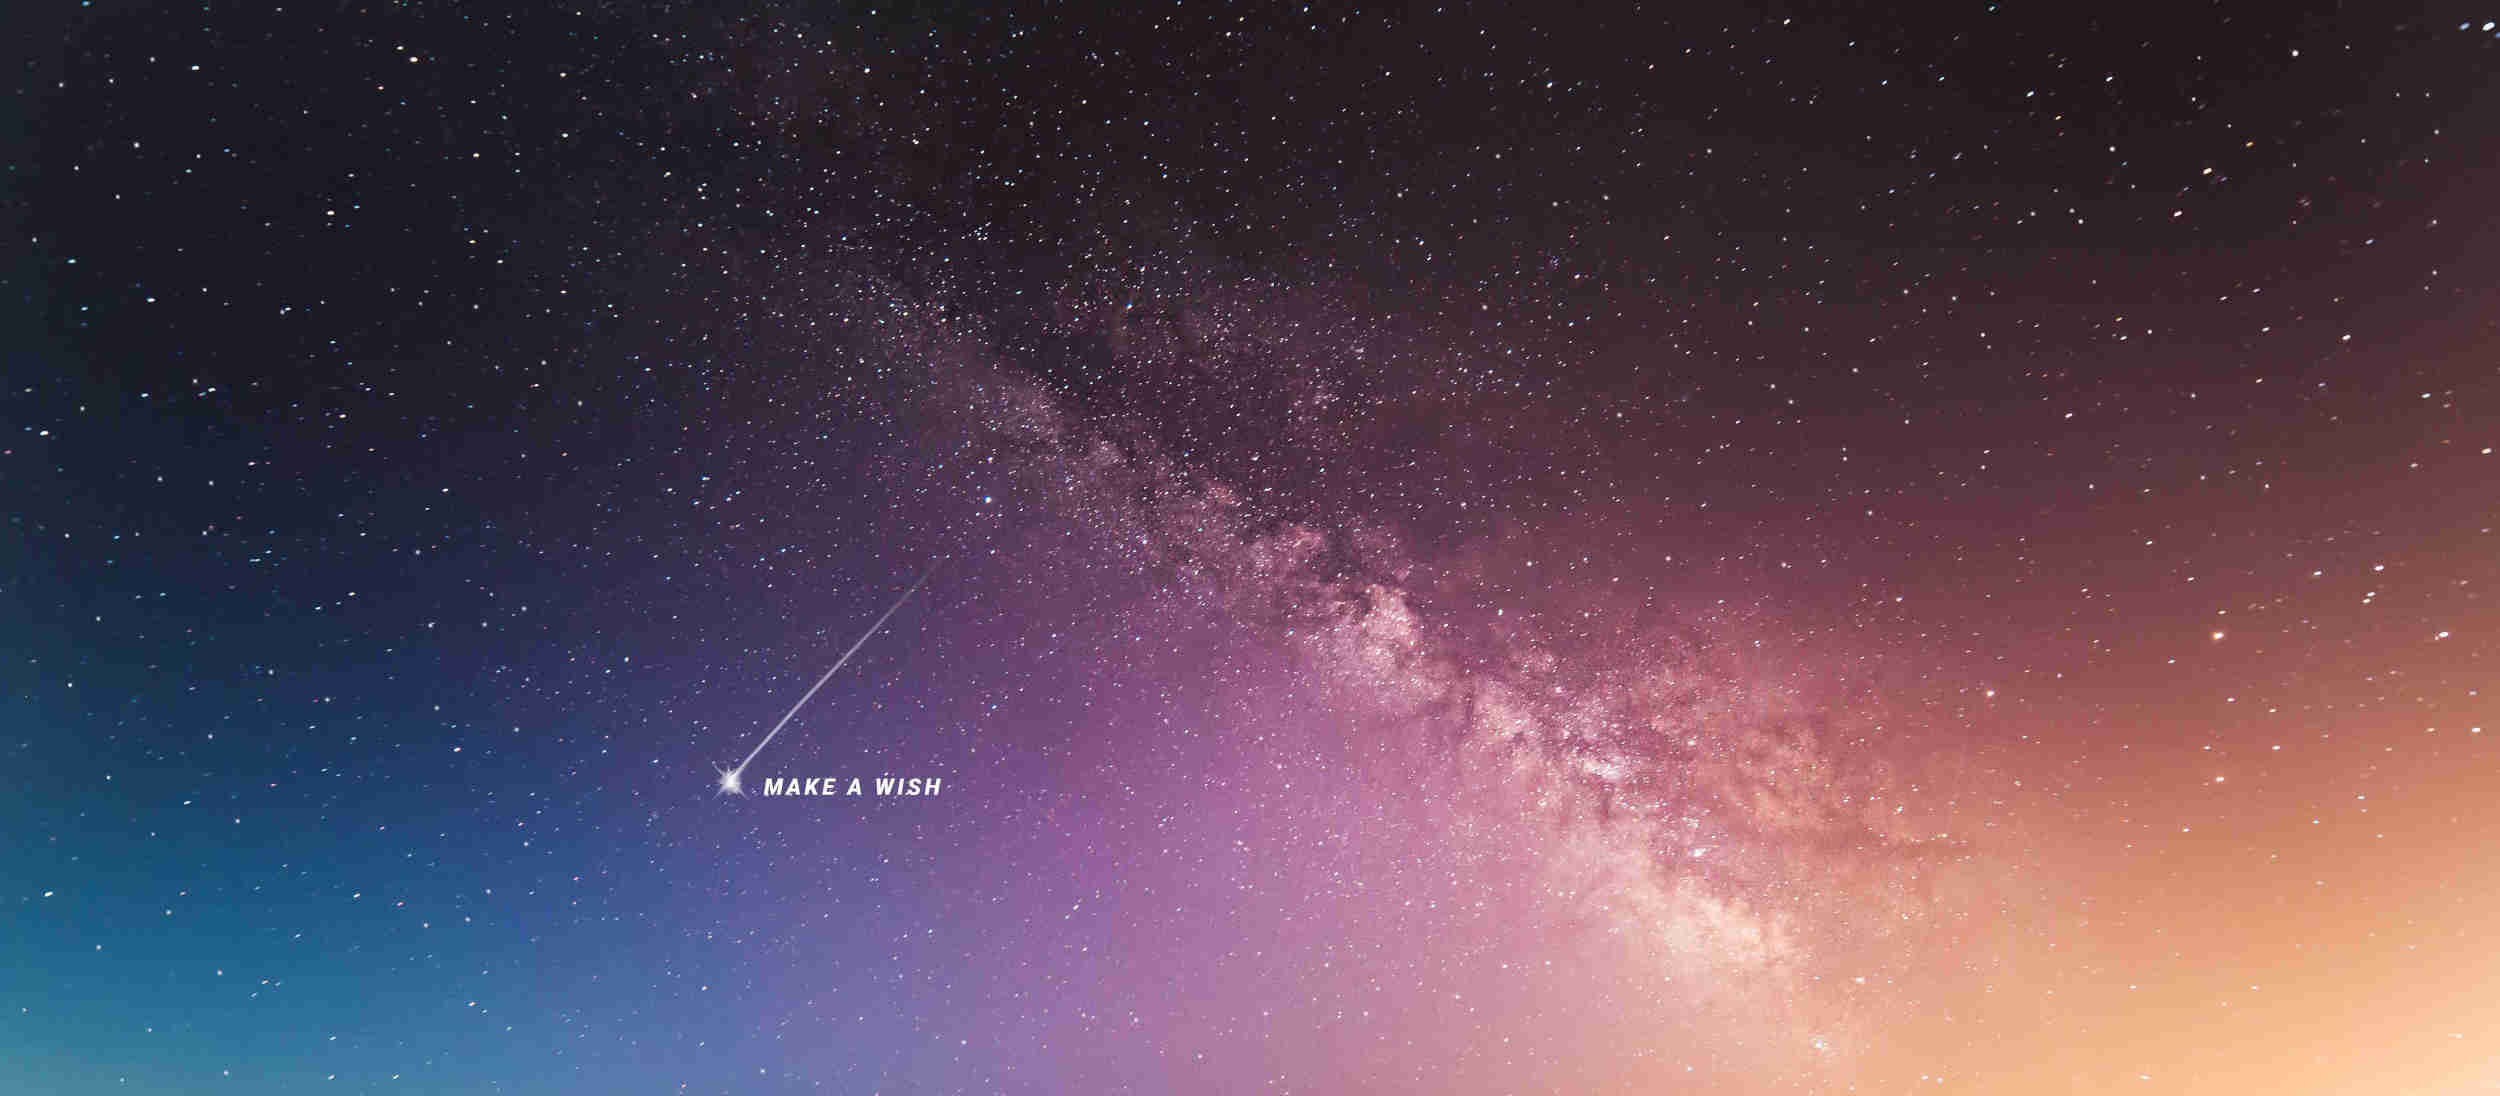
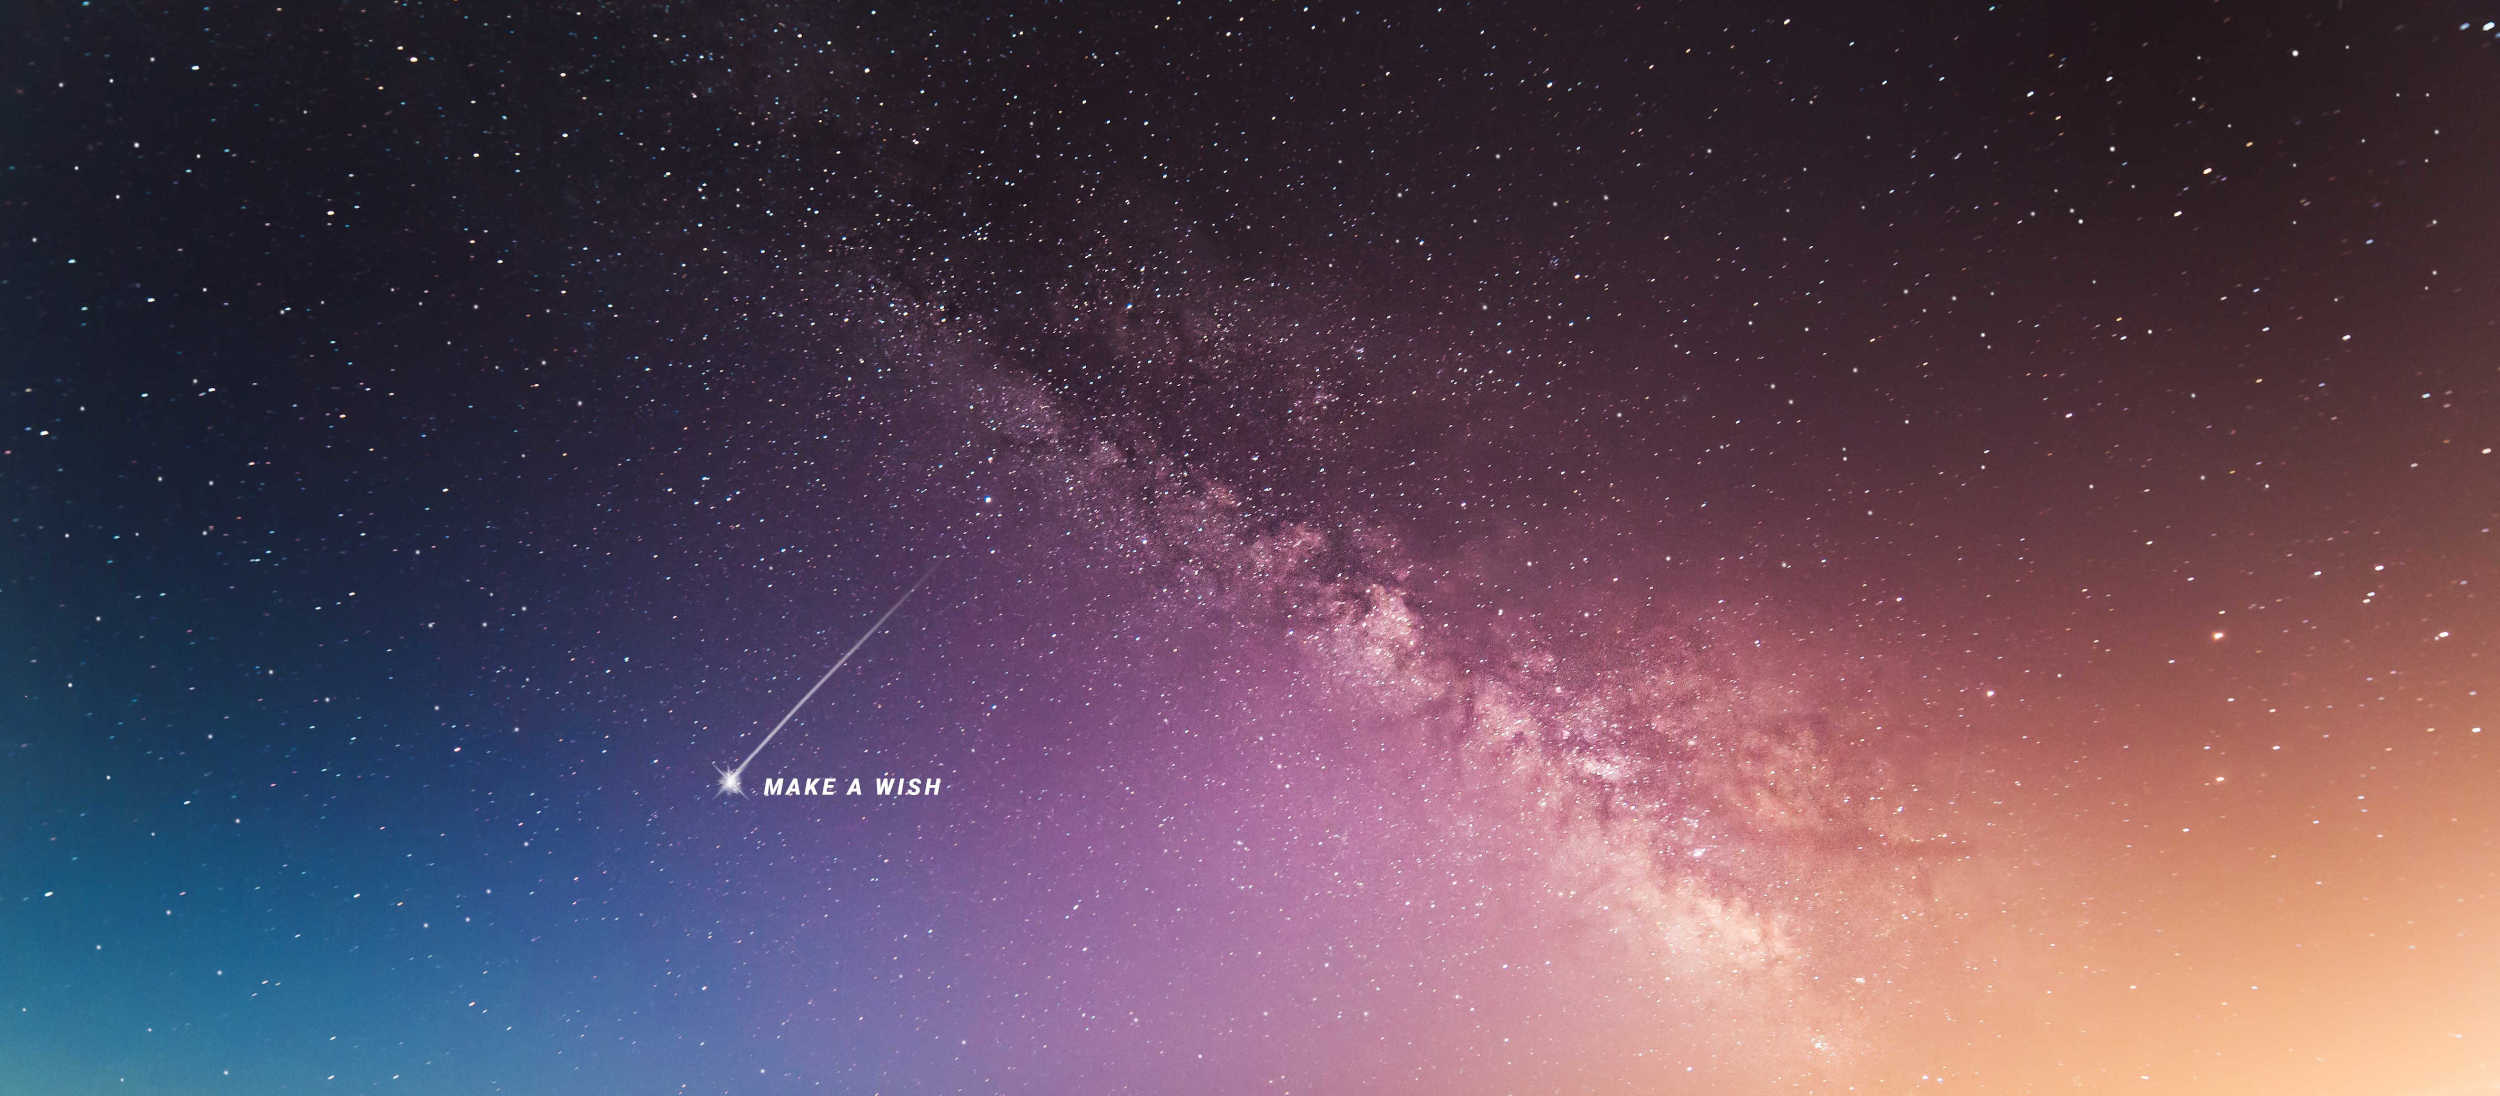
fade in header image

diff --git a/js/main.js b/js/main.js
@@ -1,5 +1,10 @@
 // fade in effect for header
 window.addEventListener('load', (event) => {
     console.log('The page has fully loaded');
-    document.getElementById("my-name").classList.add('fade-in');
+    document.getElementById('my-name').classList.add('fade-in');
+  
+
+    const header = document.querySelector('header');
+    header.className += 'fade-in-header';
+
 });

diff --git a/css/stylesMobil.scss b/css/stylesMobil.scss
@@ -126,6 +126,7 @@ header {
   background-size:960px;
   background-repeat: no-repeat;
   background-attachment:fixed;
+  opacity: 0;
 }
 
 /*
@@ -134,6 +135,11 @@ header {
 .fade-in {
   opacity: 1;
   transition: opacity 5.5s ease;
+}
+
+.fade-in-header {
+  opacity: 1;
+  transition: opacity 2.5s ease;
 }
 
 
